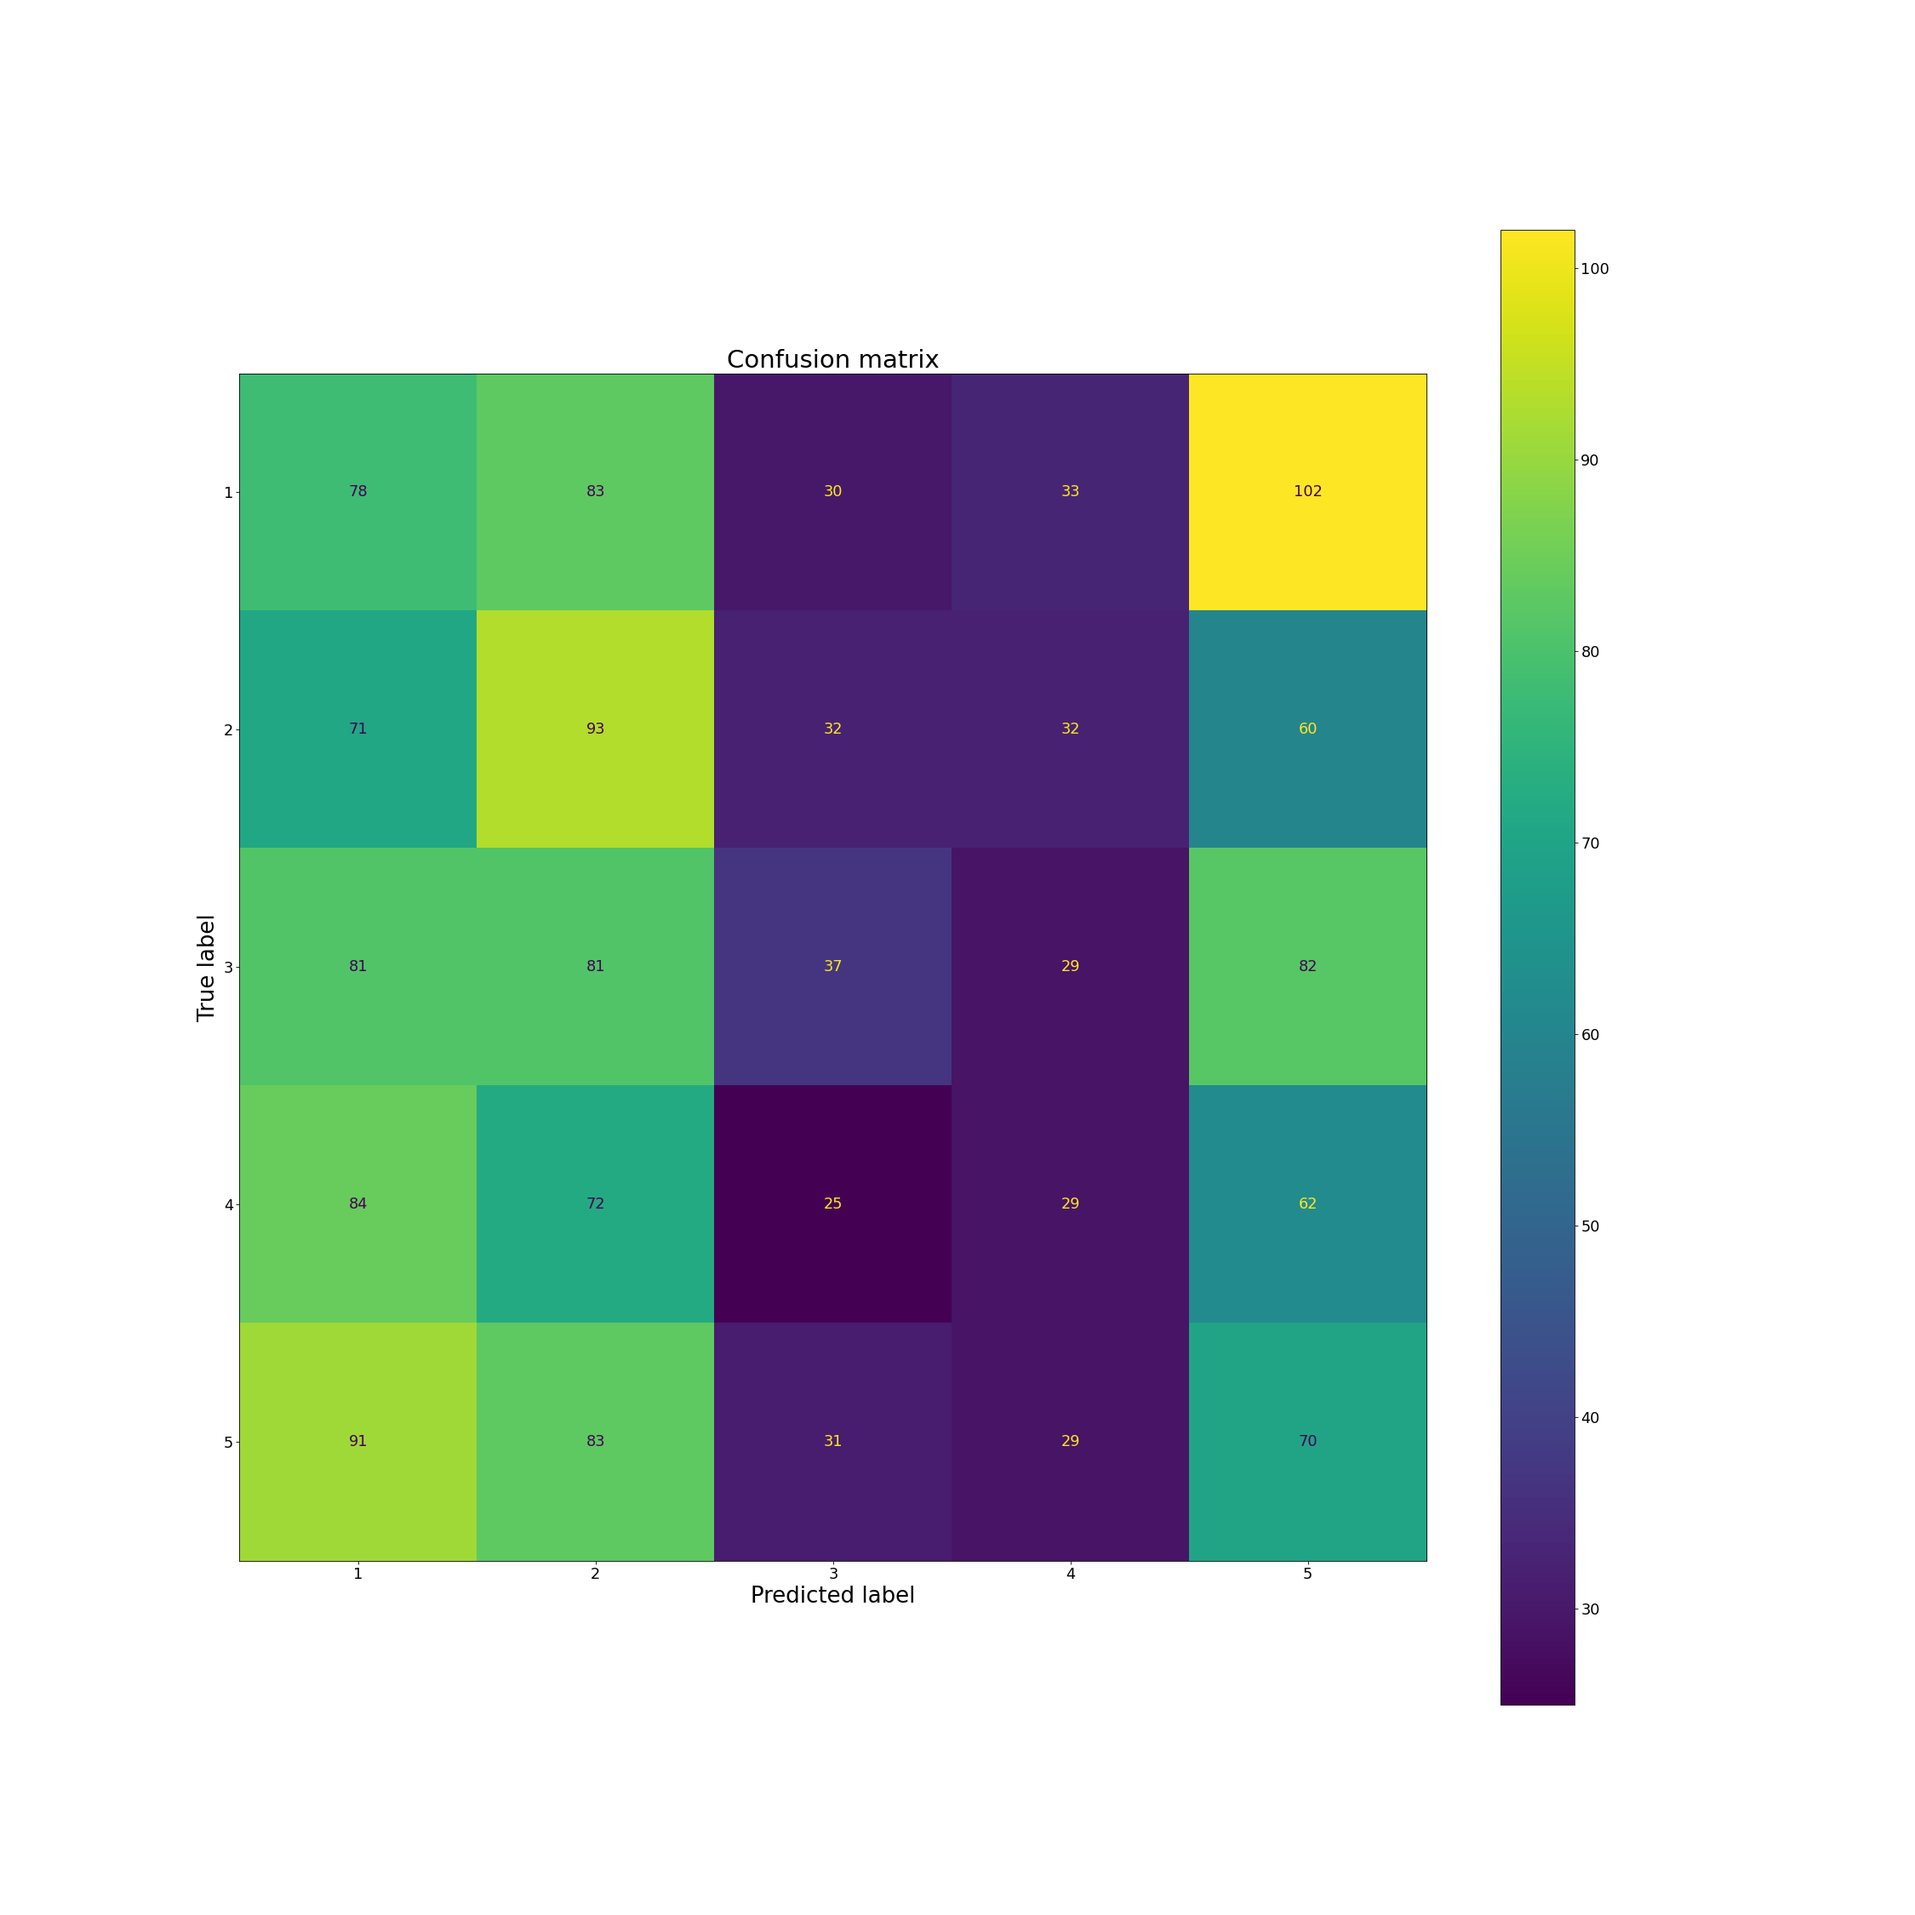
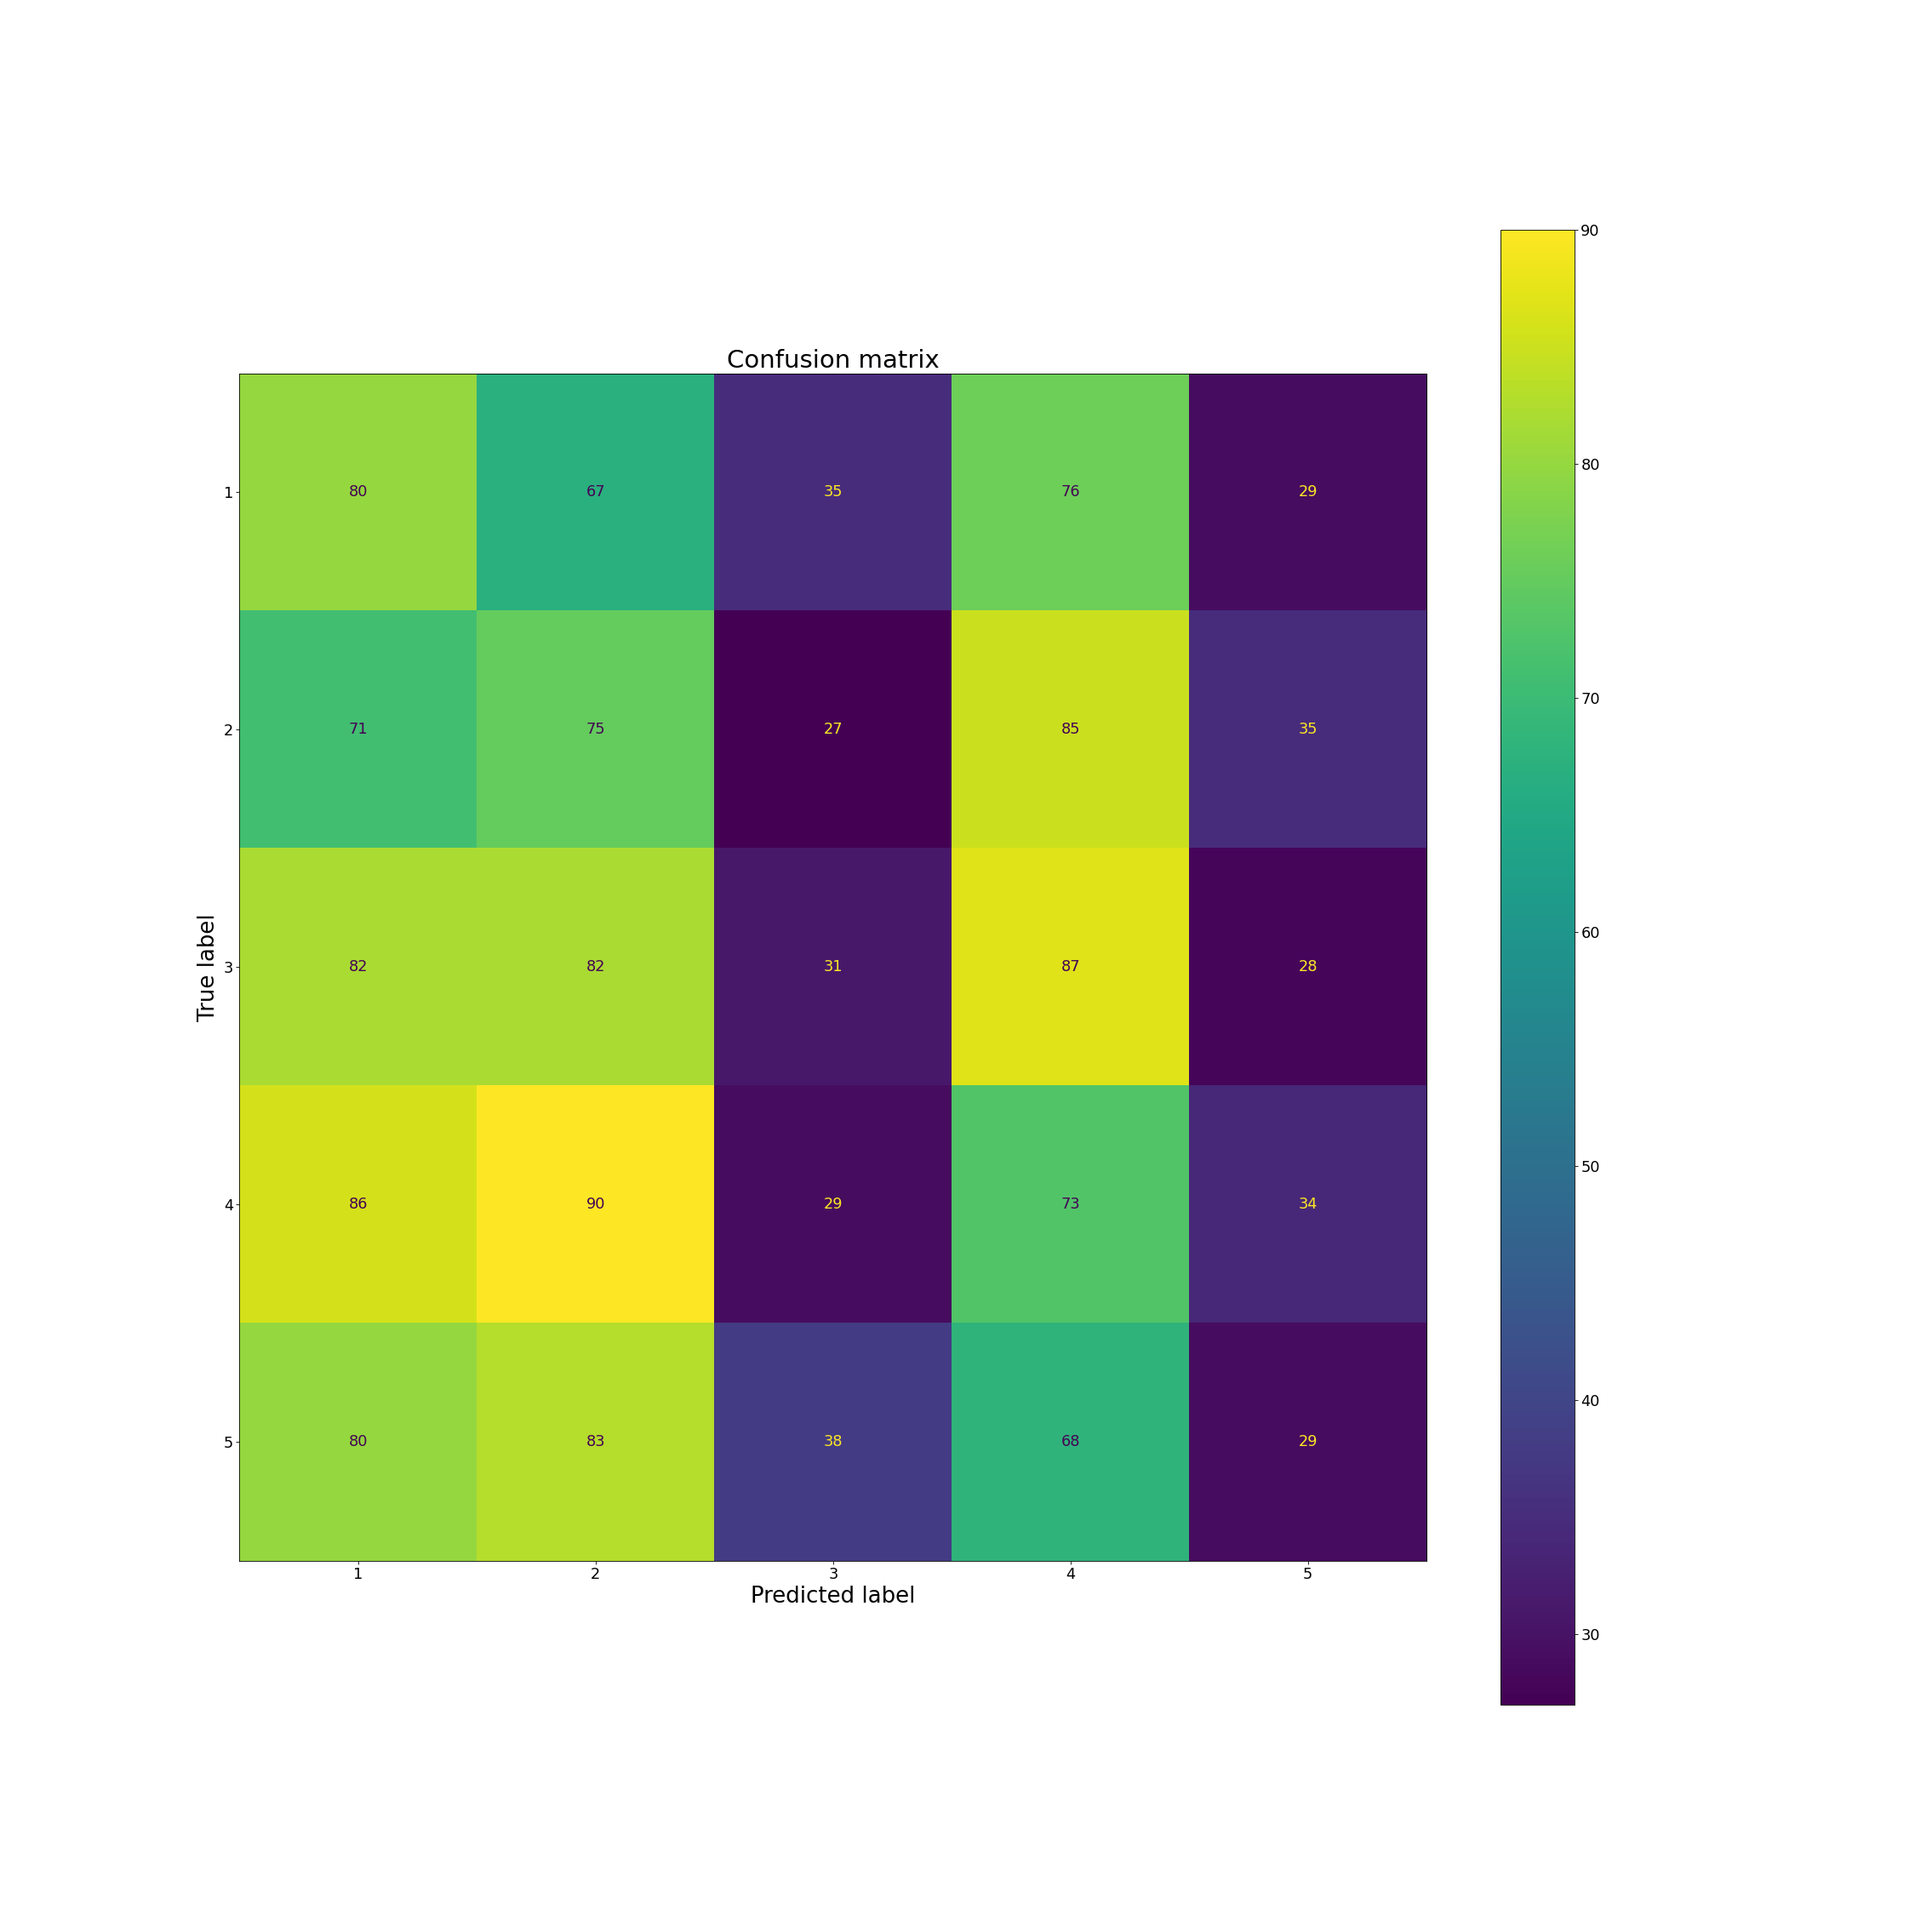
refactor(kmeans): New pca results
* Add new results

diff --git a/k-means.py b/k-means.py
@@ -66,7 +66,7 @@ class PrepareDataset:
         # Features extraction using pca
         if PROCESS == "pca":
 
-            pca = PCA(n_components=150)
+            pca = PCA(n_components=50)
             # Flatten (number_samples, number_features) to bot able to use pca
             x_train = x_train.reshape(
                 -1, x_train.shape[1] * x_train.shape[2] * x_train.shape[3]
